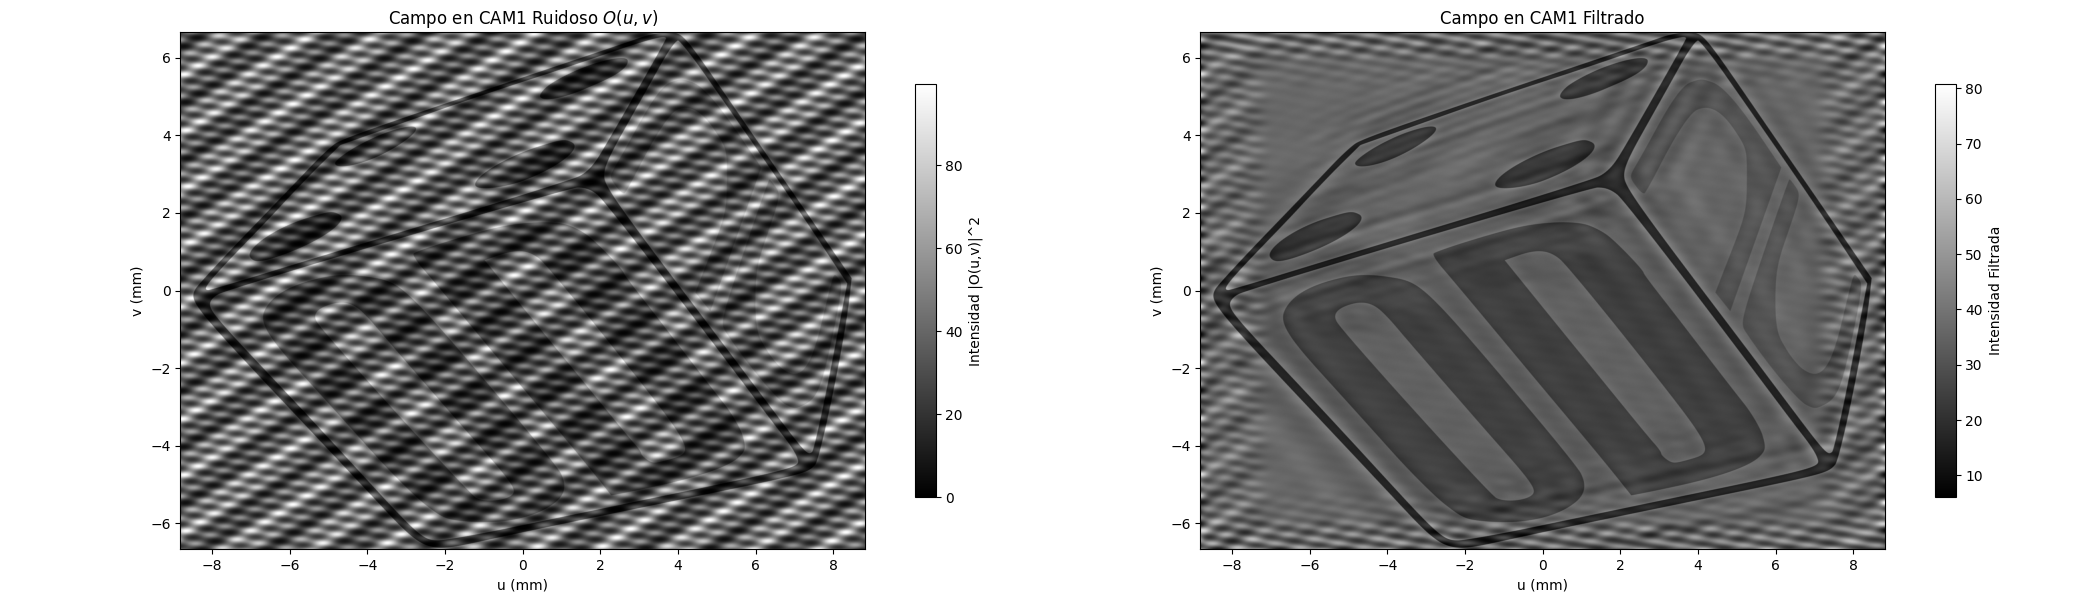
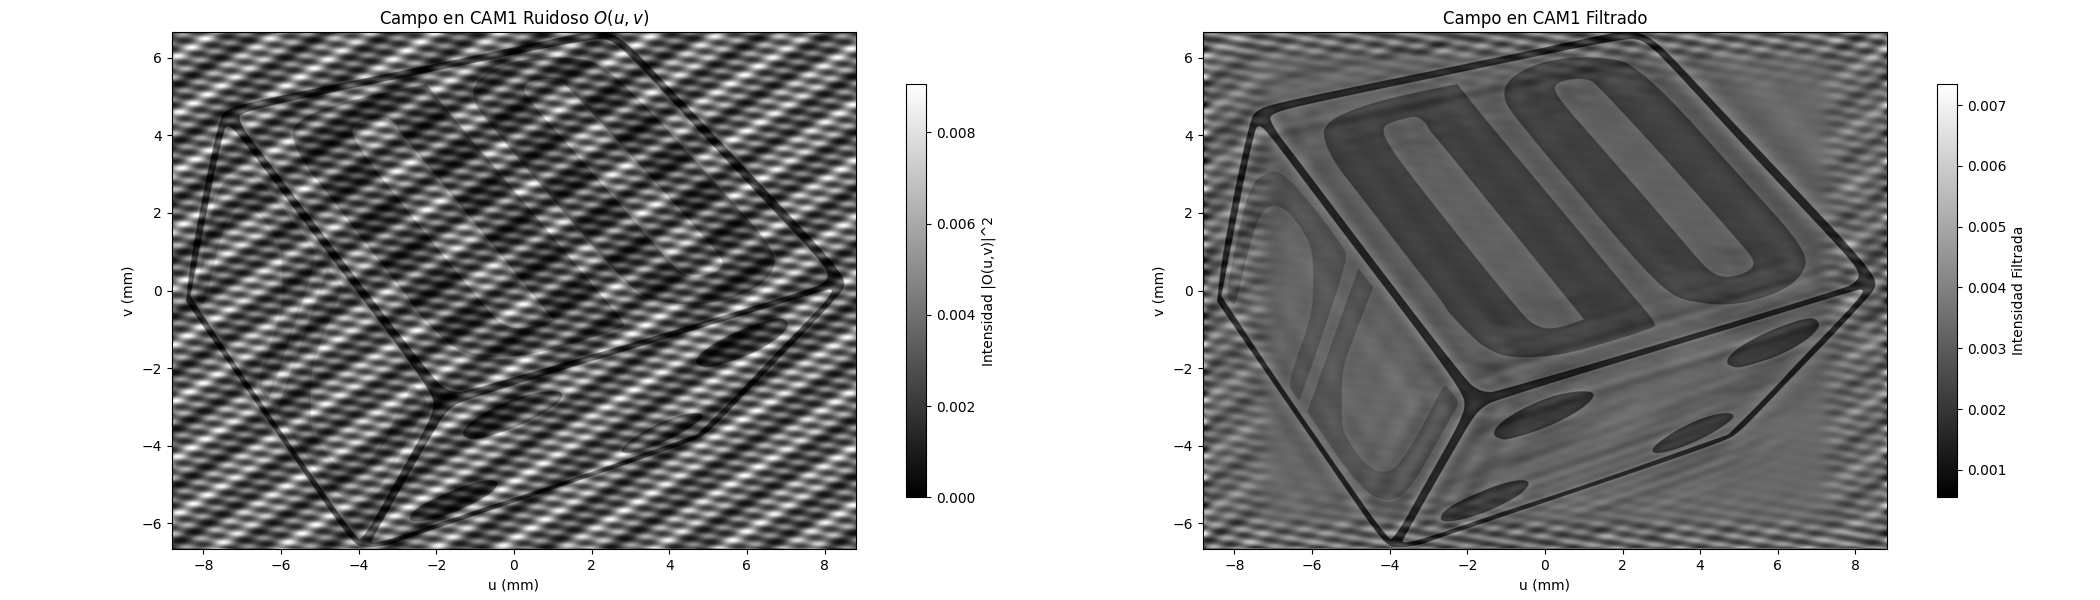
update
creacion garficas

diff --git a/Practicas/Practica_02/Actividad_1/Parte_02.py b/Practicas/Practica_02/Actividad_1/Parte_02.py
@@ -405,7 +405,21 @@ plt.show()
 
 #Grafica para el informe
 
-# --- Create a single figure and axes ---
+fig, ax = plt.subplots(figsize=(7, 6)) # figsize can be adjusted
+
+# --- Graficar la Magnitud de la Transformada de Fourier (escala log) ---
+im_tf_plot = ax.imshow(intensity_S2, cmap='gray', extent=extent_cam1, origin='lower', aspect='equal')
+fig.colorbar(im_tf_plot, ax=ax, label='Intensidad |S2|^2', shrink=0.8)
+ax.set_xlabel('u (mm)')
+ax.set_ylabel('v (mm)')
+ax.set_title('Campo en CAM1 $O(u,v)$') 
+ax.grid(False)
+
+
+plt.tight_layout() 
+plt.savefig('Practicas/Practica_02/Actividad_1/O(u,v)en CAM1.png') 
+plt.show()
+
 fig, ax = plt.subplots(figsize=(7, 6)) # figsize can be adjusted
 
 # --- Graficar la Magnitud de la Transformada de Fourier (escala log) ---
@@ -530,7 +544,7 @@ ax.set_xlim(-zoom_range, zoom_range)
 ax.set_ylim(-zoom_range, zoom_range)
 
 plt.tight_layout() 
-plt.savefig('Practicas/Practica_02/Actividad_1/Resultados/U(x_,y_.png') 
+plt.savefig('Practicas/Practica_02/Actividad_1/Resultados/U(x_,y_).png') 
 plt.show()
 
 
@@ -547,7 +561,7 @@ center_x_index = cols // 2
 # Encontrar picos , Prominence ayuda a encontrar picos que sobresalen
 peaks_fx_indices, properties_fx = find_peaks(sum_along_fy, prominence=np.max(sum_along_fy)/10) # prominencia > 10% del max
 
-# Filtrar el pico central (DC) si está presente
+# Filtrar el pico central 
 peaks_fx_indices = peaks_fx_indices[peaks_fx_indices != center_x_index]
 
 # Obtener las frecuencias fx correspondientes
@@ -626,7 +640,7 @@ def create_gaussian_notch_mask(TF_shape, fx_coords, fy_coords, noise_freq_coords
             distance_sq_noise = (FX - center_fx)**2 + (FY - center_fy)**2
             gaussian_dip = 1.0 - np.exp(-distance_sq_noise / (2 * sigma_alrededor**2))
             gaussian_notch_mask *= gaussian_dip
-            #print(f"  Muesca Gaussiana aplicada centrada en ({center_fx:.2f}, {center_fy:.2f})")
+            #print(f"  Mascara Gaussiana aplicada centrada en ({center_fx:.2f}, {center_fy:.2f})")
 
     # --- Crear y aplicar mascara Gaussiana para el centro (si sigma > 0) ---
     if sigma > 0:
@@ -679,13 +693,77 @@ plt.figure(figsize=(7, 6))
 extent_mask = [-10,10,-10,10] # Limitar el rango para mejor visualización
 plt.imshow(gaussian_mask_01, cmap='gray', extent=extent_mask, origin='lower', aspect='equal', vmin=0, vmax=1)
 plt.colorbar(label='Transmitancia de la Máscara Gaussiana')
-plt.title(f'Máscara de Muesca Gaussiana (Sigma Alrededor={sigma_noise_freq:.2f}, Sigma={sigma_freq:.2f} 1/mm)')
+plt.title(f'Máscara Gaussiana (Sigma={sigma_noise_freq:.2f} 1/mm)')
 plt.xlabel('$f_x$ (1/mm)')
 plt.ylabel('$f_y$ (1/mm)')
-plt.xlim(-10,10)
-plt.ylim(-10,10)
+plt.xlim(-5,5)
+plt.ylim(-5,5)
 
 plt.savefig('Practicas/Practica_02/Actividad_1/Resultados/mascara_gaussiana.png')
+plt.show()
+
+#Grafica para el informe
+# --- Valores de sigma_noise_freq para graficar ---
+sigma_noise_freq_values = [0.1, 0.3, 0.5, 0.7, 0.9, 1.2] # Puedes ajustar estos valores
+sigma_freq = 0   # Sigma para la masacara en el centro (1/mm) - Se mantiene en 0
+# --- Crear la figura con subplots ---
+n_plots = len(sigma_noise_freq_values)
+ncols = 3 
+nrows = int(np.ceil(n_plots / ncols))
+# Ajusta el figsize para que sea similar en proporción al (15, 6) que mostraste, 
+# pero para una cuadrícula 2x3. (15 de ancho por 6*2 = 12 de alto)
+fig, axes = plt.subplots(nrows=nrows, ncols=ncols, figsize=(15, 10), squeeze=False)
+axes_flat = axes.flatten() 
+
+# --- Rango de visualización ---
+extent_mask = [-2, 2, -2, 2] # Limitar el rango para mejor visualización
+
+# --- Iterar sobre los valores de sigma y graficar ---
+plot_images = [] 
+for i, sigma_noise_freq in enumerate(sigma_noise_freq_values):
+    if i < len(axes_flat): 
+        ax = axes_flat[i] 
+
+        # --- Crear la máscara GAUSSIANA que no deja pasar las frecuencias ---
+        gaussian_mask_10_ = create_gaussian_notch_mask(TF_shifted.shape, fx, fy, unique_target_coords_freq, sigma_noise_freq, sigma_freq)
+
+        # --- Mascara que solo deja pasar las frecuencias (invertir la muesca) ---
+        gaussian_mask_01_ = 1.0 - gaussian_mask_10_
+
+        # --- Graficar la forma de la mascara en el subplot ---
+        im = ax.imshow(gaussian_mask_01_, cmap='gray', extent=extent_mask, origin='lower', aspect='equal', vmin=0, vmax=1)
+        plot_images.append(im) # Guardar la imagen para la colorbar global
+        ax.set_title(f'$\\sigma_{{ruido}}$={sigma_noise_freq:.2f} 1/mm')
+        ax.set_xlabel('$f_x$ (1/mm)')
+        ax.set_ylabel('$f_y$ (1/mm)')
+        zoom_limit = 1.5 # Cambia este valor para más o menos zoom (ej: 3.0)
+        ax.set_xlim(-zoom_limit, zoom_limit)
+        ax.set_ylim(-zoom_limit, zoom_limit)
+        ax.grid(False) 
+
+    else:
+        break
+
+# --- Ocultar ejes no utilizados ---
+for j in range(i + 1, nrows * ncols):
+    if j < len(axes_flat):
+        fig.delaxes(axes_flat[j])
+
+# --- Ajustar el layout ---
+fig.suptitle('Máscaras Gaussiana variando $\\sigma_{{ruido}}$', fontsize=16, y=0.98) 
+
+# --- AJUSTE DE LAYOUT Y COLORBAR (Soluciona el problema de superposición) ---
+# Deja espacio a la derecha (0.92) y arriba (0.95) para la colorbar y el título
+plt.tight_layout(rect=[0, 0.03, 0.92, 0.95]) 
+
+# Añadir la barra de color explícitamente en el espacio reservado
+cbar_ax = fig.add_axes([0.94, 0.15, 0.02, 0.7]) # [left, bottom, width, height]
+# Aplicando el 'shrink=0.8' de tu ejemplo (implícito en el alto=0.7)
+fig.colorbar(plot_images[0], cax=cbar_ax, label='Transmitancia')
+
+
+# --- Guardar y mostrar la figura ---
+plt.savefig('Practicas/Practica_02/Actividad_1/Resultados/mascaras_gaussianas_comparacion.png')
 plt.show()
 
 # ===================================================================
